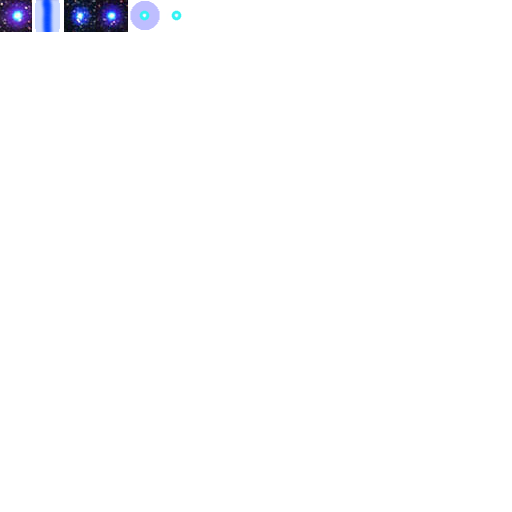
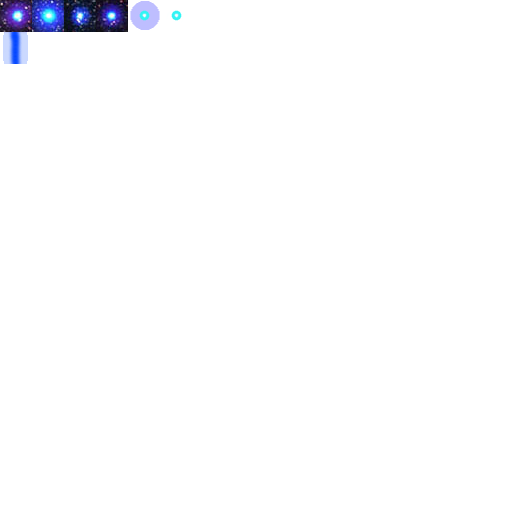
fixed bug in particle sheet generator

Changed region(s): [[0.0625, 0.0, 0.125, 0.0625], [0.0, 0.0625, 0.0625, 0.125]]

diff --git a/pyglet_client/netclient/SDL/particle_functions.c b/pyglet_client/netclient/SDL/particle_functions.c
@@ -405,10 +405,10 @@ int _planar_laser2(int density, float x0, float y0, float z0, float x1, float y1
     glDepthMask(GL_FALSE);
 
     glBindTexture( GL_TEXTURE_2D, texture );
-    glEnable(GL_BLEND);
+    ///glEnable(GL_BLEND);
     //glBlendFunc(GL_SRC_ALPHA, GL_ONE_MINUS_SRC_ALPHA);
     //glBlendFunc (GL_ONE, GL_ONE);
-    glBlendFunc (GL_SRC_ALPHA, GL_ONE);
+    ///glBlendFunc (GL_SRC_ALPHA, GL_ONE);
 
     int bl, tl, tr, br;
 
@@ -435,6 +435,6 @@ int _planar_laser2(int density, float x0, float y0, float z0, float x1, float y1
     glDepthMask(GL_TRUE);
     glDisable(GL_TEXTURE_2D);
     glDisable (GL_DEPTH_TEST);
-    glDisable(GL_BLEND);
+    ///glDisable(GL_BLEND);
 
 }

diff --git a/pyglet_client/netclient/gameloop.py b/pyglet_client/netclient/gameloop.py
@@ -266,8 +266,8 @@ class App(object):
             P.event("Draw World_1 - laser")
             if True:
                 pass
-                density = 4
-                SDL.gl.planar_laser(density, 2,2,1, 2,2,6)
+                density = 1
+                SDL.gl.planar_laser2(density, 0,0,0, 0,0,6)
                 #SDL.gl.planar_laser(2,2,1, 2,2,6)
                 #SDL.gl.planar_laser(4,4,1, 4,4,6)
 

diff --git a/pyglet_client/png_tools/gen_particle_sheet.py b/pyglet_client/png_tools/gen_particle_sheet.py
@@ -12,7 +12,7 @@ sprites = [
 ]
 
 def _offset(id):
-    x = id % 15
+    x = id % 16
     y = (id - x) / 16
     return (x,y)
 
